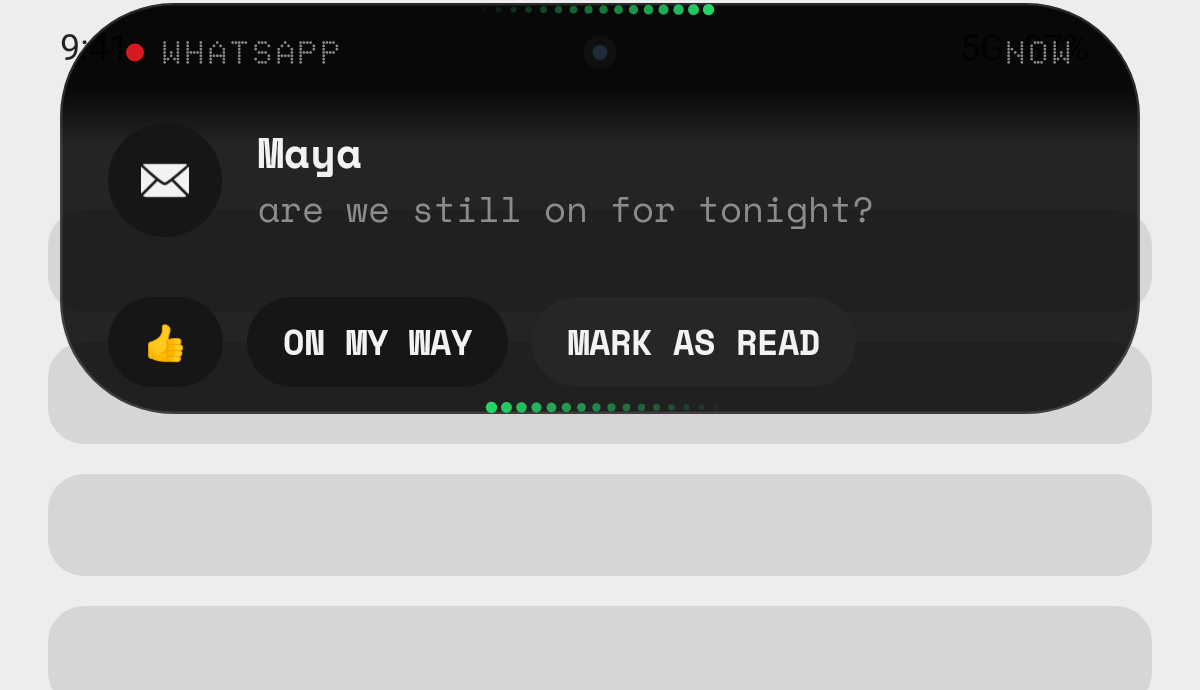
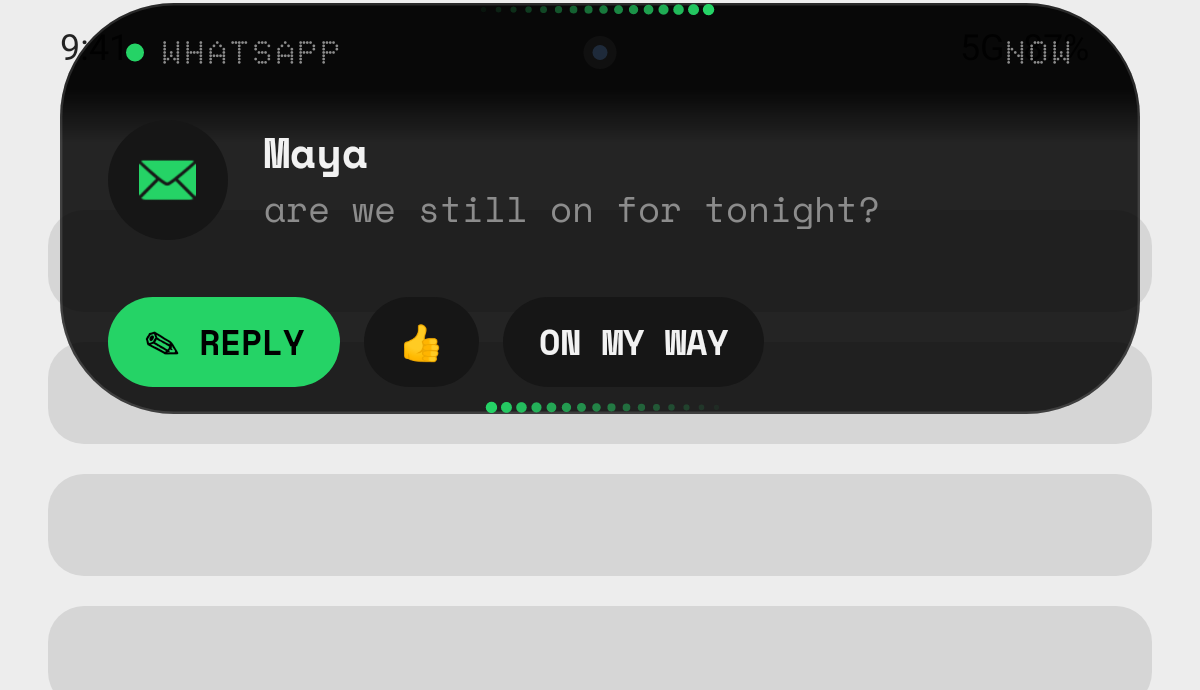
Type your own reply from the island; split bubble on the left
- Notifications with a Reply action get a "✎ Reply" chip (in the app's
  colour) before the one-tap replies. It opens ReplyActivity: a
  see-through screen with an island-style card under the status bar,
  keyboard up, that sends the text through the notification's
  RemoteInput and confirms "SENT" on the island. An overlay can't
  take the keyboard, so a tiny activity is the reliable way.
- The split island bubble now sits left of the pill so it doesn't
  cover the Wi-Fi, signal and battery icons.

Claude-Session: https://claude.ai/code/session_013Ux6V4Mu22KpPNhHEWNT6s

diff --git a/app/src/main/java/com/wallisland/island/ReplyActivity.kt b/app/src/main/java/com/wallisland/island/ReplyActivity.kt
@@ -1,0 +1,189 @@
+package com.wallisland.island
+
+import android.app.Activity
+import android.app.PendingIntent
+import android.app.RemoteInput
+import android.content.Intent
+import android.graphics.drawable.GradientDrawable
+import android.os.Build
+import android.os.Bundle
+import android.text.InputType
+import android.view.Gravity
+import android.view.KeyEvent
+import android.view.ViewGroup
+import android.view.WindowManager
+import android.view.inputmethod.EditorInfo
+import android.widget.EditText
+import android.widget.FrameLayout
+import android.widget.LinearLayout
+import android.widget.TextView
+
+/**
+ * Typing your own reply from the island. An overlay can't take the keyboard, so this is a small see-through
+ * screen with an island-style card at the top: who wrote, what they said, a text box and Send. The reply
+ * goes back through the app's own Reply action, as the one-tap replies do.
+ */
+class ReplyActivity : Activity() {
+
+    private var target: Pair<Notice, NoticeAction>? = null
+
+    override fun onCreate(savedInstanceState: Bundle?) {
+        super.onCreate(savedInstanceState)
+        val t = pending ?: run { finish(); return }
+        pending = null
+        target = t
+        val (notice, action) = t
+        window.setSoftInputMode(
+            WindowManager.LayoutParams.SOFT_INPUT_STATE_ALWAYS_VISIBLE or WindowManager.LayoutParams.SOFT_INPUT_ADJUST_RESIZE,
+        )
+
+        val d = resources.displayMetrics.density
+        fun dp(v: Int) = (v * d).toInt()
+        val accent = if (notice.color != 0) notice.color or (0xFF shl 24) else Look.accent
+
+        val root = FrameLayout(this).apply {
+            // Tapping the dimmed space around the card cancels.
+            setOnClickListener { finish() }
+            setBackgroundColor(0x66000000)
+        }
+        val card = LinearLayout(this).apply {
+            orientation = LinearLayout.VERTICAL
+            setPadding(dp(20), dp(16), dp(16), dp(16))
+            background = GradientDrawable().apply {
+                setColor(Look.BLACK)
+                cornerRadius = dp(30).toFloat()
+                setStroke(dp(1), 0x22FFFFFF)
+            }
+            isClickable = true // swallow taps so they don't cancel
+            elevation = dp(8).toFloat()
+        }
+
+        // Header: "● WHATSAPP", like the island's own.
+        val header = LinearLayout(this).apply { gravity = Gravity.CENTER_VERTICAL }
+        header.addView(android.view.View(this).apply {
+            background = GradientDrawable().apply { shape = GradientDrawable.OVAL; setColor(accent) }
+        }, LinearLayout.LayoutParams(dp(7), dp(7)).apply { marginEnd = dp(9) })
+        header.addView(TextView(this).apply {
+            text = notice.appName.uppercase()
+            typeface = Look.dot(context)
+            textSize = 12f
+            setTextColor(Look.GREY)
+            letterSpacing = 0.08f
+        })
+        card.addView(header)
+
+        card.addView(TextView(this).apply {
+            text = notice.title.ifEmpty { notice.appName }
+            typeface = Look.monoBold(context)
+            textSize = 16f
+            setTextColor(Look.WHITE)
+            setPadding(0, dp(10), 0, 0)
+        })
+        if (notice.text.isNotBlank()) {
+            card.addView(TextView(this).apply {
+                text = notice.text
+                typeface = Look.mono(context)
+                textSize = 13f
+                setTextColor(Look.GREY)
+                maxLines = 3
+                ellipsize = android.text.TextUtils.TruncateAt.END
+                setPadding(0, dp(2), 0, dp(12))
+            })
+        }
+
+        val row = LinearLayout(this).apply { gravity = Gravity.CENTER_VERTICAL }
+        val input = EditText(this).apply {
+            hint = "Reply to ${notice.title.ifEmpty { notice.appName }}"
+            typeface = Look.mono(context)
+            textSize = 14f
+            setTextColor(Look.WHITE)
+            setHintTextColor(0xFF6B6B6B.toInt())
+            inputType = InputType.TYPE_CLASS_TEXT or InputType.TYPE_TEXT_FLAG_CAP_SENTENCES or
+                InputType.TYPE_TEXT_FLAG_MULTI_LINE or InputType.TYPE_TEXT_FLAG_AUTO_CORRECT
+            maxLines = 4
+            imeOptions = EditorInfo.IME_ACTION_SEND
+            setPadding(dp(16), dp(10), dp(16), dp(10))
+            background = GradientDrawable().apply {
+                setColor(Look.RAISED)
+                cornerRadius = dp(22).toFloat()
+            }
+            if (Build.VERSION.SDK_INT >= 29) textCursorDrawable = GradientDrawable().apply {
+                setColor(accent)
+                setSize(dp(2), dp(18))
+            }
+        }
+        val send = TextView(this).apply {
+            text = "SEND"
+            typeface = Look.monoBold(context)
+            textSize = 12f
+            letterSpacing = 0.06f
+            setTextColor(Look.WHITE)
+            gravity = Gravity.CENTER
+            setPadding(dp(16), 0, dp(16), 0)
+            background = GradientDrawable().apply {
+                setColor(accent)
+                cornerRadius = dp(22).toFloat()
+            }
+            setOnClickListener { send(input.text.toString()) }
+        }
+        input.setOnEditorActionListener { _, id, ev ->
+            val enter = ev?.keyCode == KeyEvent.KEYCODE_ENTER && ev.action == KeyEvent.ACTION_DOWN
+            if (id == EditorInfo.IME_ACTION_SEND || enter) {
+                send(input.text.toString())
+                true
+            } else {
+                false
+            }
+        }
+        row.addView(input, LinearLayout.LayoutParams(0, ViewGroup.LayoutParams.WRAP_CONTENT, 1f))
+        row.addView(send, LinearLayout.LayoutParams(ViewGroup.LayoutParams.WRAP_CONTENT, dp(44)).apply { marginStart = dp(8) })
+        card.addView(row)
+
+        // Just under the status bar, where the island opens from.
+        val top = resources.getIdentifier("status_bar_height", "dimen", "android")
+            .let { if (it > 0) resources.getDimensionPixelSize(it) else dp(32) }
+        root.addView(card, FrameLayout.LayoutParams(ViewGroup.LayoutParams.MATCH_PARENT, ViewGroup.LayoutParams.WRAP_CONTENT, Gravity.TOP).apply {
+            setMargins(dp(10), top + dp(6), dp(10), 0)
+        })
+        setContentView(root)
+        input.requestFocus()
+        Haptics.tick(this)
+    }
+
+    private fun send(text: String) {
+        val msg = text.trim()
+        if (msg.isEmpty()) return
+        val (_, action) = target ?: return finish()
+        val input = action.reply ?: return finish()
+        val fill = Intent()
+        RemoteInput.addResultsToIntent(arrayOf(input), fill, Bundle().apply { putCharSequence(input.resultKey, msg) })
+        try {
+            action.intent.send(this, 0, fill)
+            IslandService.current?.showSent()
+        } catch (_: PendingIntent.CanceledException) {
+            toast("That notification has gone, so the reply couldn't be sent")
+        }
+        finish()
+    }
+
+    private fun toast(s: String) = android.widget.Toast.makeText(this, s, android.widget.Toast.LENGTH_SHORT).show()
+
+    override fun finish() {
+        super.finish()
+        @Suppress("DEPRECATION")
+        overridePendingTransition(0, android.R.anim.fade_out)
+    }
+
+    companion object {
+        /** The notification and its Reply action, handed over in-process (they don't need to survive a restart). */
+        @Volatile var pending: Pair<Notice, NoticeAction>? = null
+
+        fun open(ctx: android.content.Context, notice: Notice, action: NoticeAction) {
+            pending = notice to action
+            ctx.startActivity(
+                Intent(ctx, ReplyActivity::class.java)
+                    .addFlags(Intent.FLAG_ACTIVITY_NEW_TASK or Intent.FLAG_ACTIVITY_NO_ANIMATION or Intent.FLAG_ACTIVITY_EXCLUDE_FROM_RECENTS),
+            )
+        }
+    }
+}

diff --git a/app/src/main/java/com/wallisland/island/IslandView.kt b/app/src/main/java/com/wallisland/island/IslandView.kt
@@ -213,7 +213,7 @@ class IslandView(context: Context, private val prefs: Prefs, private val host: H
     private fun bubbleGap() = context.dp(7f)
 
     /**
-     * The bubble pops out to the right of the pill with a springy overshoot, a black circle like the pill
+     * The bubble pops out to the left of the pill (clear of the status icons on the right) with a springy overshoot, a black circle like the pill
      * itself: album art for music, or the glyph of the live activity.
      */
     private fun drawBubble(canvas: Canvas, a: Float) {
@@ -221,7 +221,7 @@ class IslandView(context: Context, private val prefs: Prefs, private val host: H
         val b = shownBubble ?: return
         if (p <= 0.01f) return
         val d = bubbleSize()
-        val cx = pillRect.right + bubbleGap() + d / 2f
+        val cx = pillRect.left - bubbleGap() - d / 2f
         val cy = pillRect.top + d / 2f
         val r = d / 2f * p.coerceIn(0f, 1.15f)
         bubbleRect.set(cx - d / 2f, cy - d / 2f, cx + d / 2f, cy + d / 2f)
@@ -2218,7 +2218,8 @@ class IslandView(context: Context, private val prefs: Prefs, private val host: H
     // ---- Notification buttons and quick replies ------------------------------------------------------------
 
     /** A chip under a notification: one of the app's own buttons, or a canned reply sent through its Reply. */
-    private class Chip(val label: String, val action: NoticeAction, val replyText: String?)
+    /** A button under a notification: a canned reply, the typed-reply chip, or one of the app's own actions. */
+    private class Chip(val label: String, val action: NoticeAction, val replyText: String?, val typed: Boolean = false)
 
     private val chipHits = ArrayList<Pair<RectF, Chip>>()
     private val chipPaint by lazy { textPaint(Look.monoBold(context), 11.5f, Look.WHITE) }
@@ -2226,7 +2227,11 @@ class IslandView(context: Context, private val prefs: Prefs, private val host: H
     private fun chipsFor(n: Notice): List<Chip> {
         val out = ArrayList<Chip>()
         val reply = n.actions.firstOrNull { it.reply != null }
-        if (reply != null) QUICK_REPLIES.take(2).forEach { out += Chip(it, reply, it) }
+        if (reply != null) {
+            // Your own words first, then the one-tap replies.
+            out += Chip("✎ Reply", reply, null, typed = true)
+            QUICK_REPLIES.take(2).forEach { out += Chip(it, reply, it) }
+        }
         for (a in n.actions) {
             if (out.size >= 3) break
             if (a.reply != null) continue
@@ -2251,10 +2256,18 @@ class IslandView(context: Context, private val prefs: Prefs, private val host: H
             val w = chipPaint.measureText(label) + context.dp(24f)
             if (x + w > limit) break
             val rect = RectF(x, cy - h / 2f, x + w, cy + h / 2f)
-            dotPaint.color = if (c.replyText != null) Look.RAISED else Look.LINE
+            dotPaint.color = when {
+                c.typed -> appColor(n)
+                c.replyText != null -> Look.RAISED
+                else -> Look.LINE
+            }
             dotPaint.alpha = alpha
             canvas.drawRoundRect(rect, h / 2f, h / 2f, dotPaint)
+            // Dark text on the coloured typed-reply chip, white on the others.
+            chipPaint.color = if (c.typed) Look.BLACK else Look.WHITE
+            chipPaint.alpha = alpha
             drawText(canvas, label, x + context.dp(12f), cy, w, chipPaint, centerY = true)
+            chipPaint.color = Look.WHITE
             chipHits += rect to c
             x += w + context.dp(8f)
         }
@@ -2266,6 +2279,11 @@ class IslandView(context: Context, private val prefs: Prefs, private val host: H
         buzz()
         val a = chip.action
         val input = a.reply
+        if (chip.typed) {
+            ReplyActivity.open(context, n, a)
+            endTransient()
+            return true
+        }
         if (chip.replyText != null && input != null) {
             val fill = android.content.Intent()
             val results = android.os.Bundle().apply { putCharSequence(input.resultKey, chip.replyText) }

diff --git a/app/src/main/java/com/wallisland/island/IslandService.kt b/app/src/main/java/com/wallisland/island/IslandService.kt
@@ -496,6 +496,11 @@ class IslandService : Service(), IslandHub.Listener, IslandView.Host,
         }
     }
 
+    /** A reply typed in the reply card went out. */
+    fun showSent() {
+        island?.showStatus(Glyph.CHECK, "SENT", true)
+    }
+
     /** Settings changed or the adb grant just arrived: apply the pop-up choice now. */
     fun refreshPopups() = updateHidden()
 

diff --git a/README.md b/README.md
@@ -59,7 +59,7 @@ design language: black, white, one red, and dots everywhere.
   and others: a car or bag, the arrival time ("8-12 MIN", "7:45"), and a dot travelling along the
   bottom of the pill (real progress when the app reports it).
 - **Split island.** Two things at once (music and a timer, a call and music): the second pops out as
-  its own bubble beside the pill; tap it to open that one.
+  its own bubble to the left of the pill (clear of the status icons); tap it to open that one.
 - **Casting.** Music playing on a TV or speaker (Cast, Spotify Connect) shows a cast glyph and
   "ON LIVING ROOM TV"; the volume keys and the volume bar drive that device instead of the phone.
 - **Wi-Fi and hotspot.** Joining a network shows its name (with precise location allowed) and signal in
@@ -80,6 +80,8 @@ design language: black, white, one red, and dots everywhere.
   on no longer steals them, and if a press ever moves nothing the island adjusts the volume
   directly instead.
 - **Toggle confirmations.** Do Not Disturb, Wi-Fi and Bluetooth flash ON / OFF with a dot icon.
+- **Your own reply.** ✎ REPLY on a message opens a small island-style card at the top with the
+  keyboard up; type and Send, and it goes out through the app's own Reply.
 - **Buttons and quick replies.** Notifications show the app's own buttons (Mark as read, Like…) and
   one-tap replies (👍, "On my way") sent straight through the app's Reply.
 - **Edge light.** Two comets of dots race around the island's outline, in the app's colour, when a
